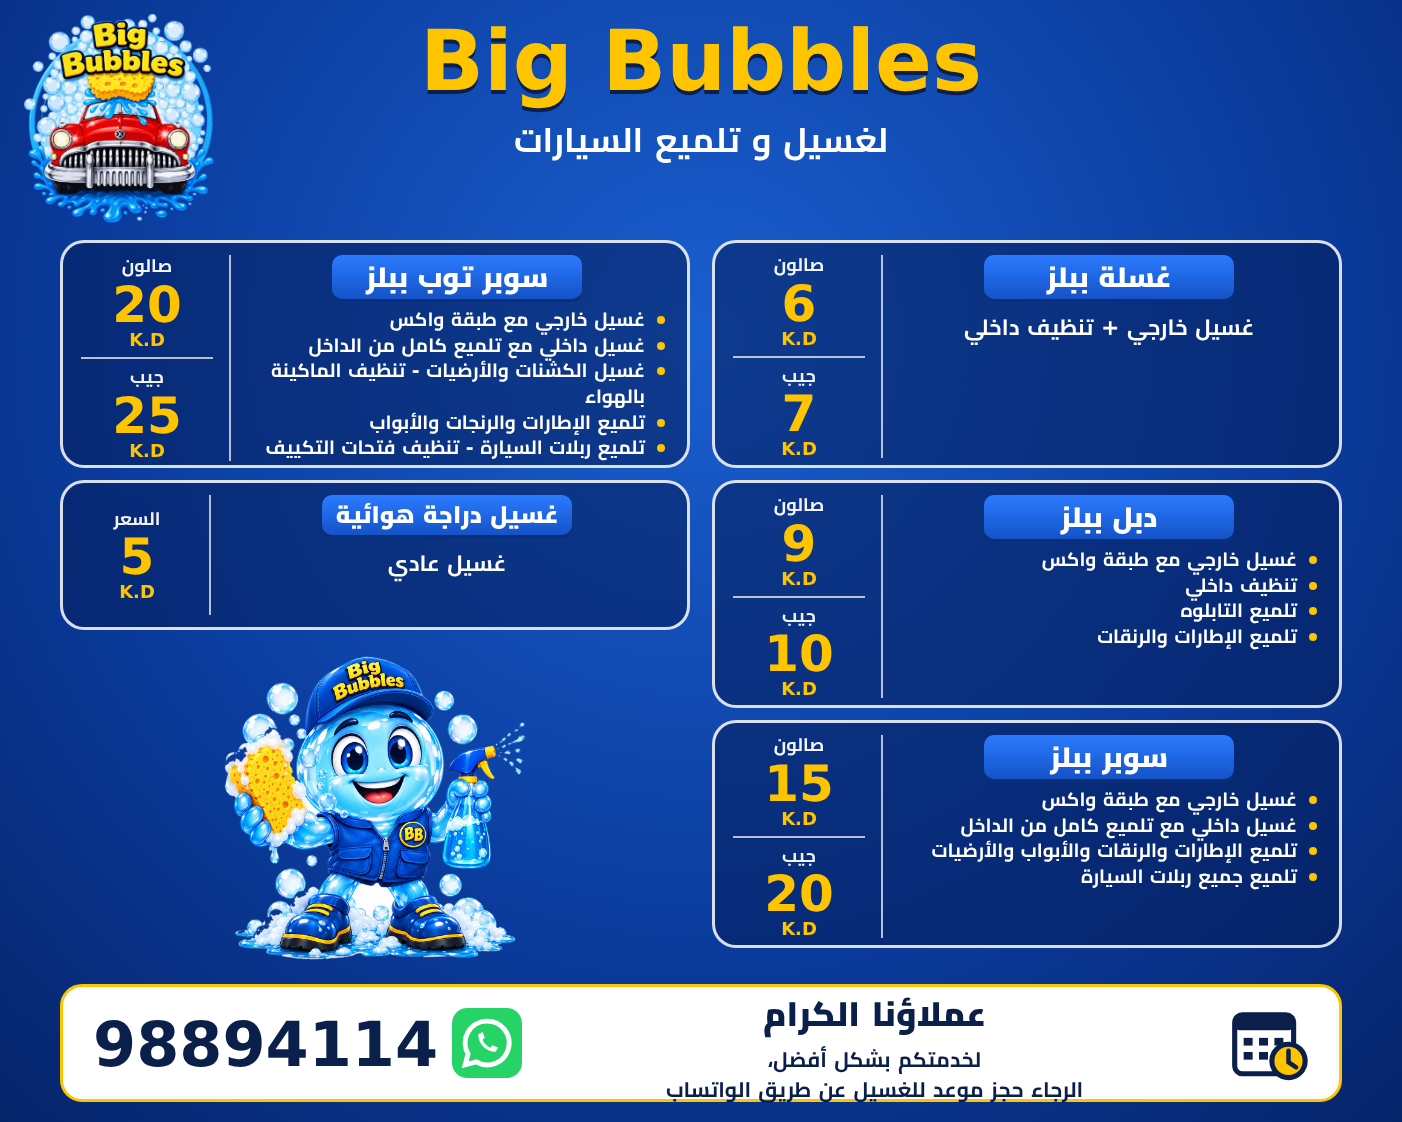
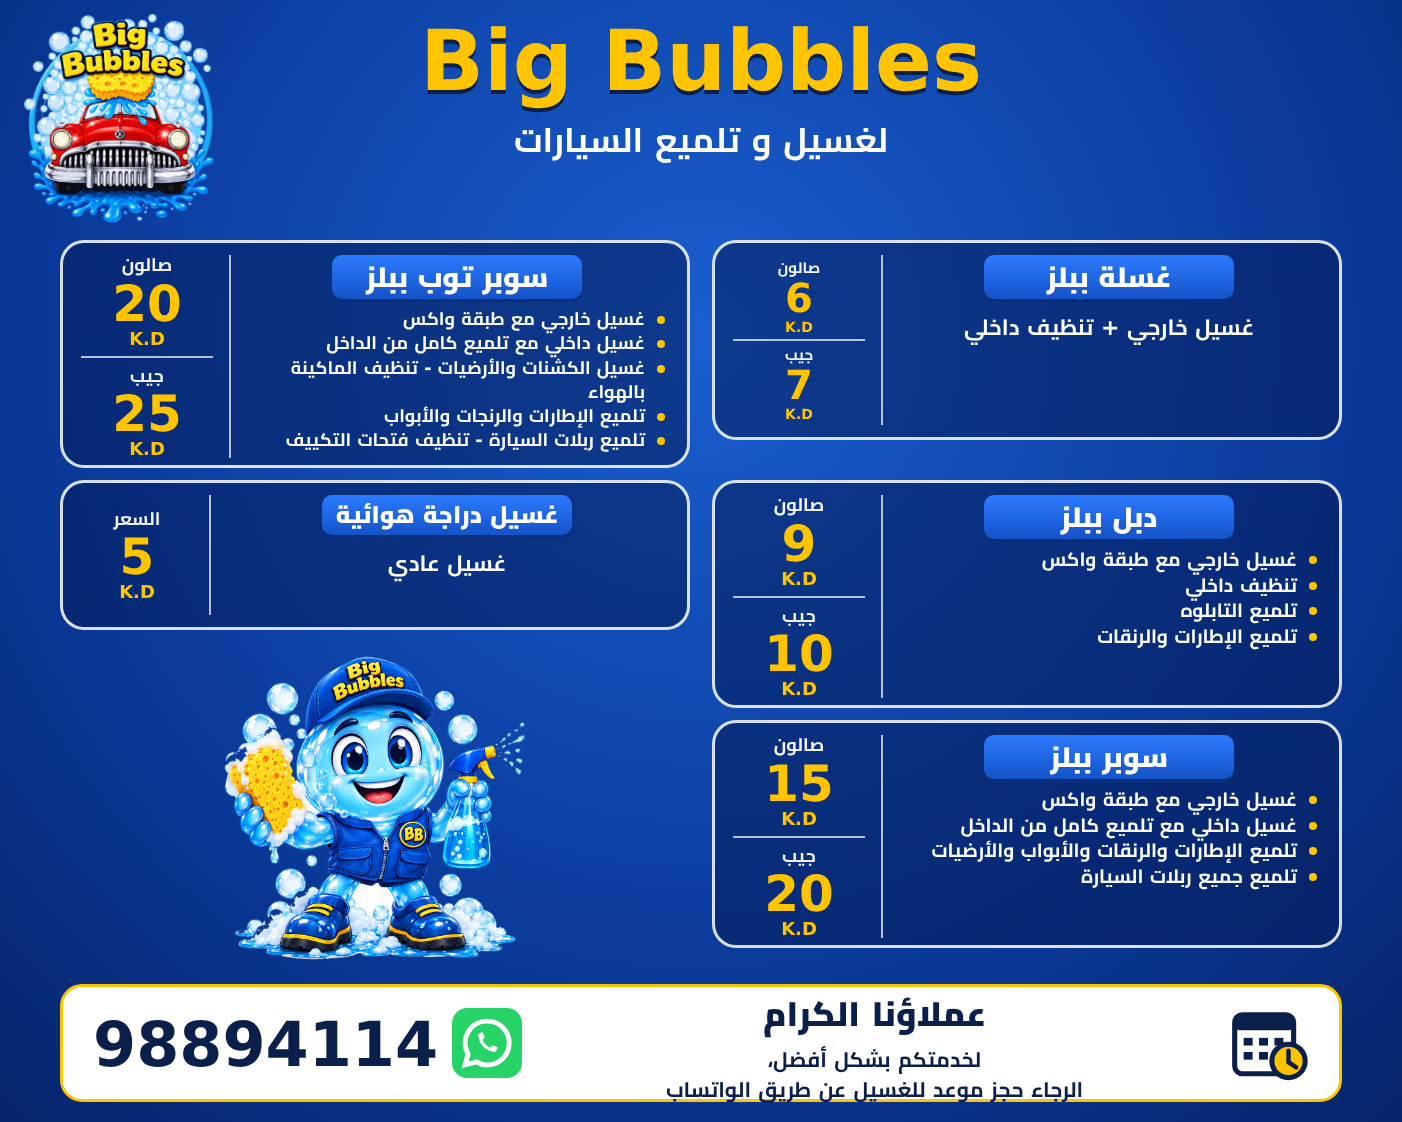
Shrink basic bubbles card in price table

Changed region(s): [[0.184, 0.2184, 0.9815, 0.4367], [0.092, 0.2184, 0.1227, 0.4055]]

diff --git a/car-wash/designs/table/index.html b/car-wash/designs/table/index.html
@@ -29,6 +29,12 @@ body{font-family:Cairo,'DejaVu Sans',sans-serif;direction:rtl;color:#fff;positio
 .prices span{line-height:1;font-size:18px;font-weight:900;color:#FFC400}
 .prices hr{border:0;border-top:2px solid rgba(255,255,255,.7);margin:6px 0}
 .cycle{height:150px;align-self:start;grid-template-columns:1fr 130px}
+.small{height:200px;align-self:start}
+.small .prices strong{font-size:40px}
+.small .prices small{font-size:15px}
+.small .prices span{font-size:14px}
+.small .prices hr{margin:3px 0}
+.top ul{font-size:18px}
 .cycle .tag{font-size:24px;min-width:230px;height:40px;line-height:40px}
 .mascot{background:transparent;border:0;display:flex;align-items:center;justify-content:center;height:300px;margin-top:-62px;overflow:visible}
 .mascot img{width:110%;height:110%;max-width:none;object-fit:contain}
@@ -51,7 +57,7 @@ body{font-family:Cairo,'DejaVu Sans',sans-serif;direction:rtl;color:#fff;positio
 
 <div class="grid">
   <!-- يمين -->
-  <div class="card">
+  <div class="card small">
     <div class="info">
       <div class="tag">غسلة ببلز</div>
       <div class="txt">غسيل خارجي + تنظيف داخلي</div>
@@ -59,7 +65,7 @@ body{font-family:Cairo,'DejaVu Sans',sans-serif;direction:rtl;color:#fff;positio
     <div class="prices"><small>صالون</small><strong>6</strong><span>K.D</span><hr><small>جيب</small><strong>7</strong><span>K.D</span></div>
   </div>
   <!-- يسار -->
-  <div class="card">
+  <div class="card top">
     <div class="info">
       <div class="tag">سوبر توب ببلز</div>
       <ul>
